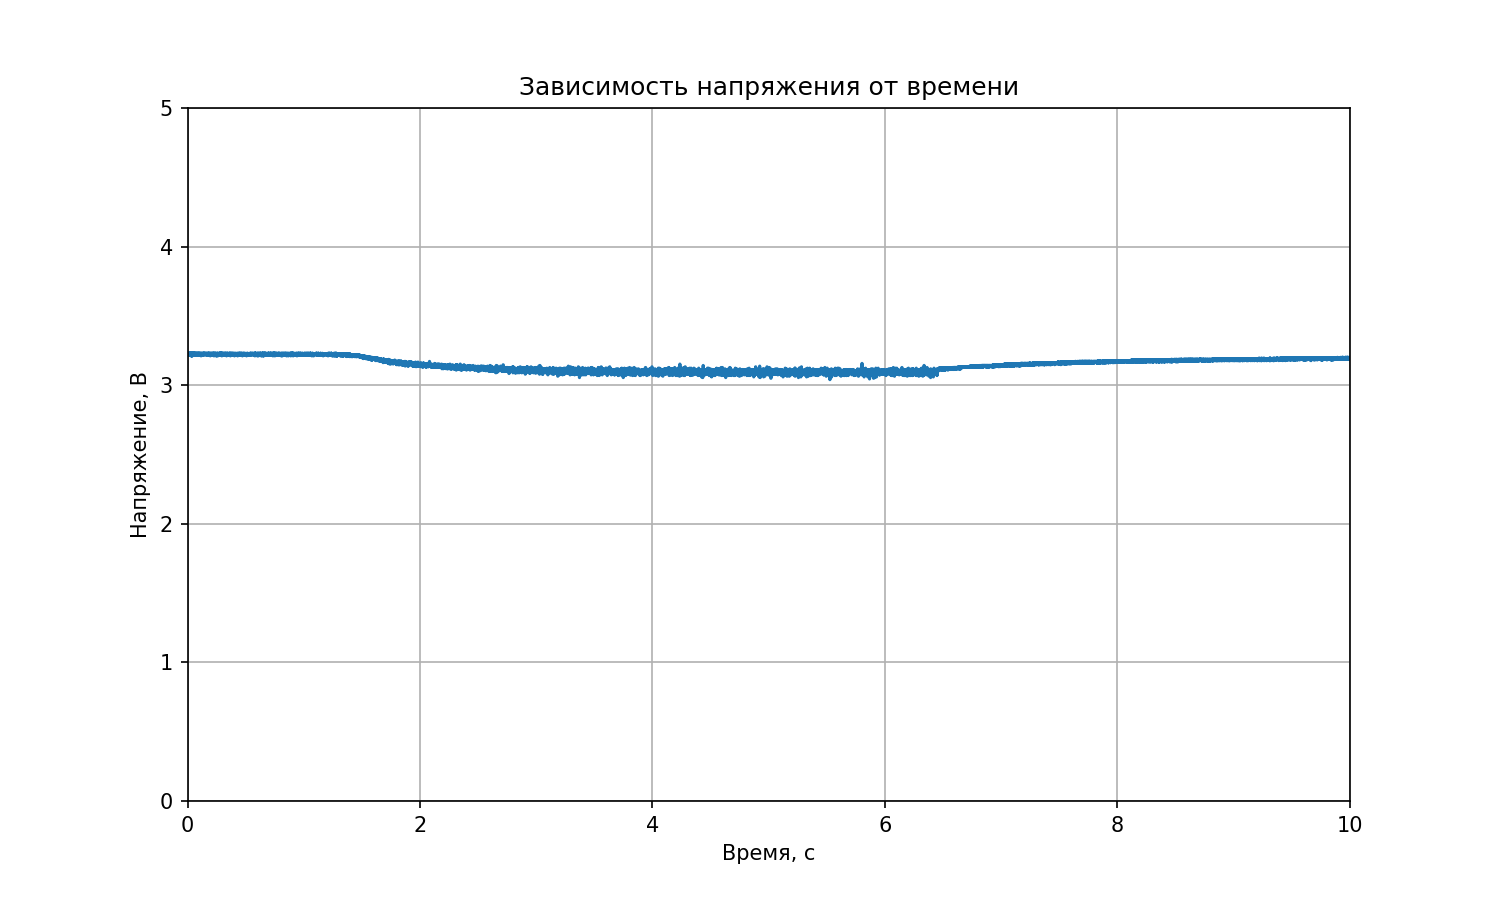
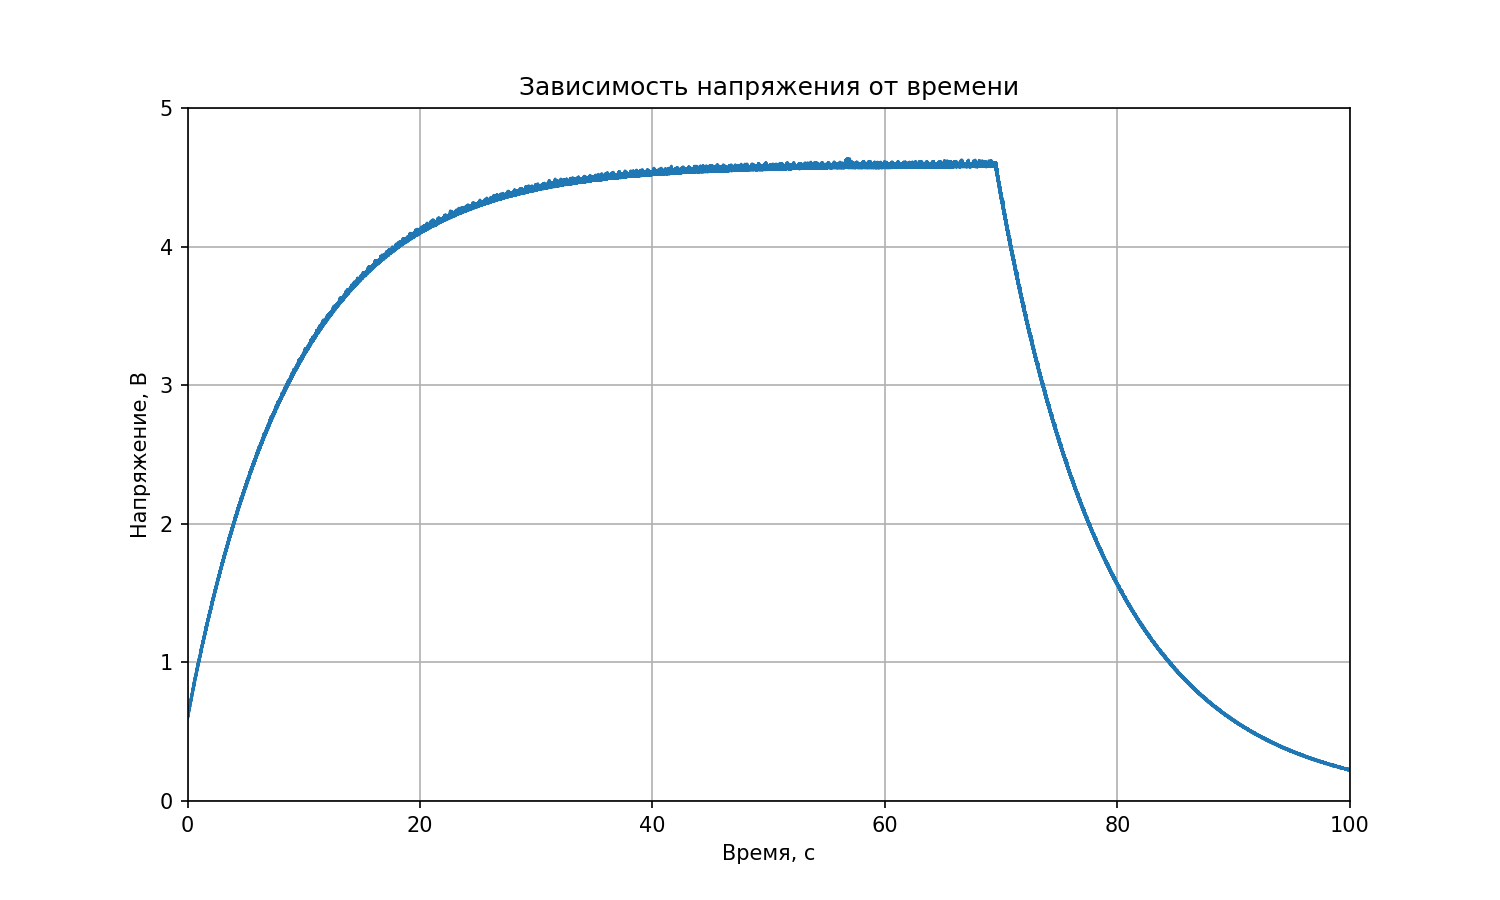
123

diff --git a/get-adc/mcp.py b/get-adc/mcp.py
@@ -9,7 +9,7 @@ adc = mcp3021_driver.MCP3021(dynamic_range)
 
 voltage_values = []
 time_values = []
-duration = 10.0
+duration = 100.0
 
 try:
     start = time.time()
